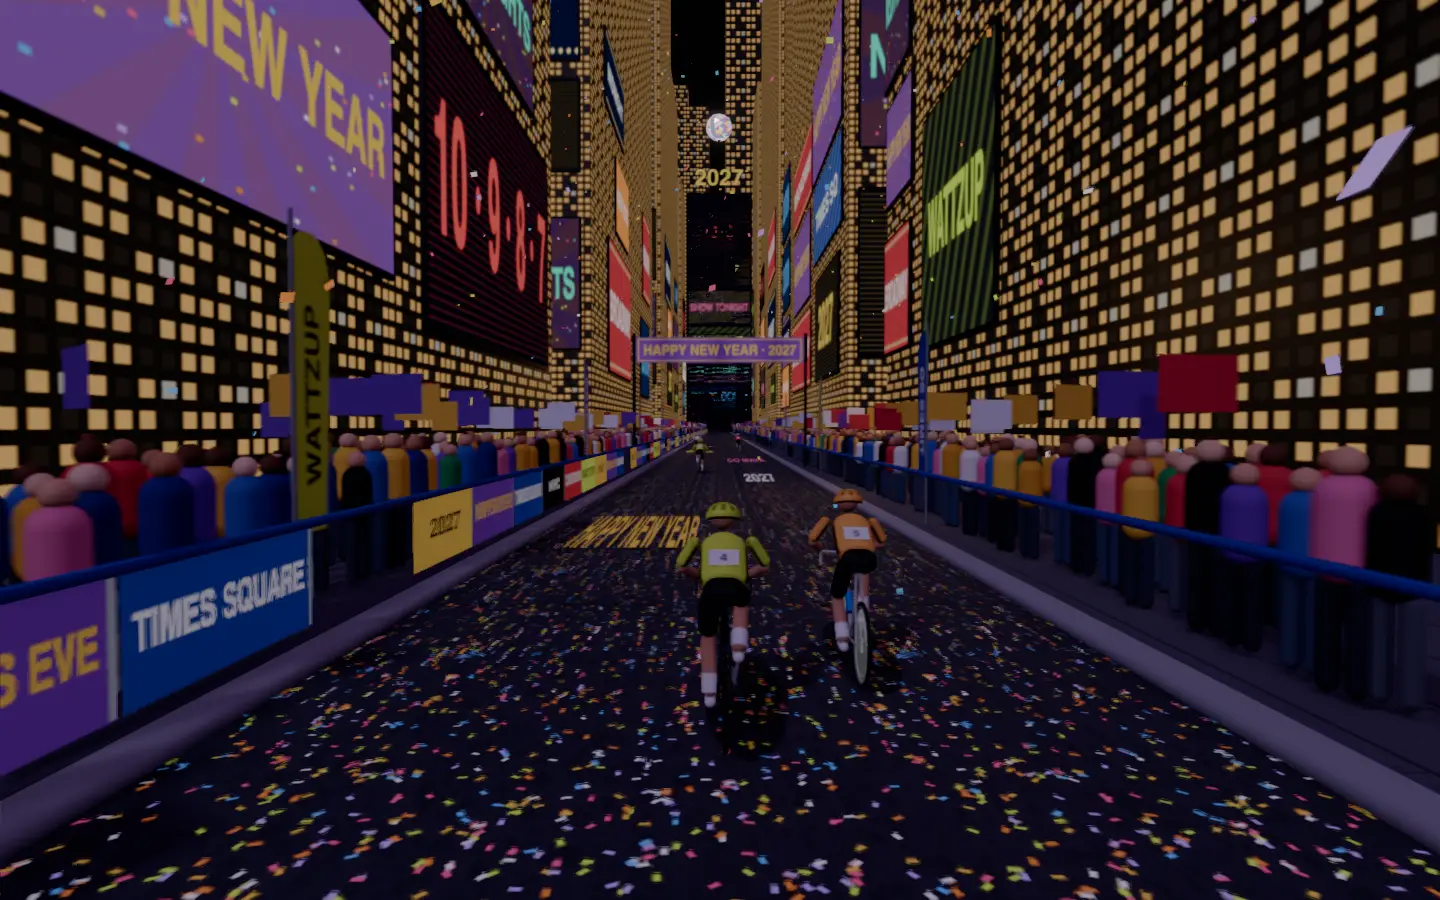
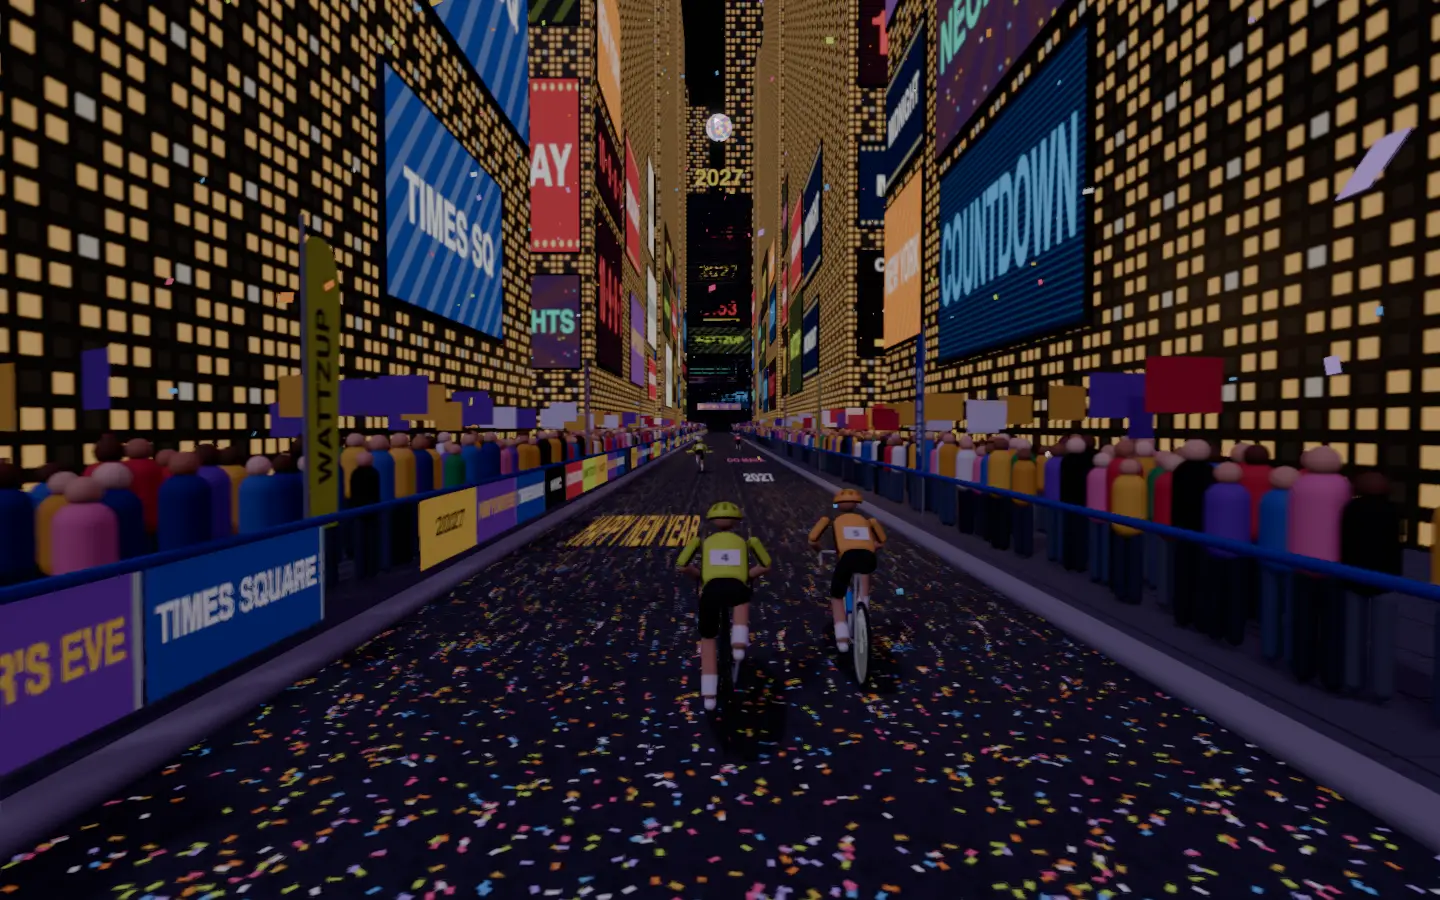
Count down every minute on Times Square's screens

diff --git a/frontend/projects/wattzup/src/app/core/world-timessquare.ts b/frontend/projects/wattzup/src/app/core/world-timessquare.ts
@@ -94,7 +94,7 @@ const BARRIER_PANELS: readonly BannerPanel[] = [
   { fill: '#111111', ink: '#ffffff', text: 'NYC' },
 ];
 const STREET_BANNERS: readonly (readonly [string, string, string, number])[] = [
-  ['HAPPY NEW YEAR · 2027', '#6a2a9a', '#f2c230', 132],
+  ['HAPPY NEW YEAR · 2027', '#6a2a9a', '#f2c230', 240],
   ['TIMES SQUARE · COUNTDOWN', '#1d3c8f', '#ffffff', 382],
 ];
 const FEATHERS: readonly FeatherWord[] = [
@@ -161,6 +161,9 @@ export class TimesSquareStreet implements SceneStreet {
   private readonly axis = new Vector3(0.6, 0.8, 0.2).normalize();
   private readonly ballMaterials: MeshStandardMaterial[] = [];
   private readonly boardTextures = new Map<number, CanvasTexture>();
+  /** The countdown screens: every one shows the same clock, counting down each minute to zero. */
+  private countdown?: CanvasTexture;
+  private shown = -1;
   private readonly flagMaterials = ['#f2c230', '#6a2a9a', '#ffffff', '#c8283a'].map(
     (colour) => new MeshStandardMaterial({ color: colour, side: DoubleSide, roughness: 0.8 }),
   );
@@ -210,6 +213,13 @@ export class TimesSquareStreet implements SceneStreet {
         this.confetti!.setMatrixAt(i, this.matrix.compose(this.spot, this.turn, this.size));
       });
       this.confetti.instanceMatrix.needsUpdate = true;
+    }
+    // The countdown screens tick down each minute, redrawn only when the second changes.
+    const left = 60 - (Math.floor(seconds) % 60);
+    if (this.countdown && left !== this.shown) {
+      this.shown = left;
+      drawCountdown((this.countdown.image as HTMLCanvasElement).getContext('2d')!, left);
+      this.countdown.needsUpdate = true;
     }
     // The ball's facets sparkle as it turns through its colours.
     this.ballMaterials.forEach((material, i) => {
@@ -352,9 +362,10 @@ export class TimesSquareStreet implements SceneStreet {
             const h = 6 + random() * 10;
             const w = Math.min(depth - 4, 10 + random() * 14);
             const angle = near > 0 ? 0 : Math.PI;
+            const kind = random() < 0.22 ? -1 : Math.floor(random() * BOARDS.length);
             tower.add(
               this.board(
-                Math.floor(random() * BOARDS.length),
+                kind,
                 w,
                 h,
                 -w / 2 - 1,
@@ -390,7 +401,7 @@ export class TimesSquareStreet implements SceneStreet {
     frame: MeshStandardMaterial,
   ): Group {
     const g = new Group();
-    let texture = this.boardTextures.get(kind);
+    let texture = kind < 0 ? this.clock() : this.boardTextures.get(kind);
     if (!texture) {
       const [text, fill, ink, look] = BOARDS[kind]!;
       texture = this.track(boardTexture(text, fill, ink, look, kind));
@@ -408,6 +419,14 @@ export class TimesSquareStreet implements SceneStreet {
     g.position.set(x, y, z);
     g.rotation.y = angle;
     return g;
+  }
+
+  /** The shared countdown screen's texture, made on first use. */
+  private clock(): CanvasTexture {
+    if (!this.countdown) {
+      this.countdown = this.track(canvasTexture(512, 256, (g) => drawCountdown(g, 60)));
+    }
+    return this.countdown;
   }
 
   private addStreetBanners(roadHalf: number): void {
@@ -527,7 +546,7 @@ export class TimesSquareStreet implements SceneStreet {
       [4, 12, 8],
       [10, 21, 9],
       [3, 31, 9],
-      [7, 42, 11],
+      [-1, 42, 11],
       [1, 54, 10],
       [9, 67, 12],
     ];
@@ -750,4 +769,34 @@ function yearTexture(): CanvasTexture {
     g.font = 'bold 190px sans-serif';
     g.fillText('2027', 256, 108, 500);
   });
+}
+
+/**
+ * A countdown screen: the seconds left in the minute as a big red clock on black, the words
+ * COUNTDOWN TO 2027 over it and a bar running out under it.
+ */
+function drawCountdown(g: CanvasRenderingContext2D, left: number): void {
+  g.fillStyle = '#07070d';
+  g.fillRect(0, 0, 512, 256);
+  g.strokeStyle = 'rgba(255,74,74,0.16)';
+  g.lineWidth = 2;
+  for (let y = 6; y < 256; y += 8) {
+    g.beginPath();
+    g.moveTo(0, y);
+    g.lineTo(512, y);
+    g.stroke();
+  }
+  g.textAlign = 'center';
+  g.textBaseline = 'middle';
+  g.fillStyle = '#ffffff';
+  g.font = 'bold 40px sans-serif';
+  g.fillText('COUNTDOWN TO 2027', 256, 34, 470);
+  g.fillStyle = '#ff3a3a';
+  g.font = 'bold 150px sans-serif';
+  const text = left === 60 ? '1:00' : `0:${String(left).padStart(2, '0')}`;
+  g.fillText(text, 256, 140, 480);
+  g.fillStyle = '#3a1a1a';
+  g.fillRect(40, 220, 432, 16);
+  g.fillStyle = '#ffd84a';
+  g.fillRect(40, 220, 432 * (left / 60), 16);
 }

diff --git a/docs/detailed-designs/world-ride/draw-class-scene/README.md b/docs/detailed-designs/world-ride/draw-class-scene/README.md
@@ -419,11 +419,12 @@ None.
   - ahead the upper slopes streaked with snow, the summit cone with its plume of steam and ash rising and drifting on the ride's clock, lesser cones on its flanks, and the Ionian Sea far below, keeping their bearing.
 - **Times Square New Year's Eve (`core/world-timessquare.ts`).** For `timessquare`, Broadway through Times Square on the last night of the year, closed for the ride:
   - Broadway's asphalt strewn with fallen confetti, names and cries chalked on it every 16 m (HAPPY NEW YEAR, 2027, 10 9 8 7 and more); kerbs, and dark paved plazas out to the tower fronts;
-  - blue police barriers hung with the ride's banners (TIMES SQUARE, NEW YEAR'S EVE, 2027, WATTZUP, COUNTDOWN, NYC), the kit's feather flags every 16 m along both, and two banners over the street (HAPPY NEW YEAR · 2027, TIMES SQUARE · COUNTDOWN);
+  - blue police barriers hung with the ride's banners (TIMES SQUARE, NEW YEAR'S EVE, 2027, WATTZUP, COUNTDOWN, NYC), the kit's feather flags every 16 m along both, and two banners over the street (HAPPY NEW YEAR · 2027 and TIMES SQUARE · COUNTDOWN), set where they leave One Times Square in view from the opening shot;
   - the party packed solid in the plazas behind the barriers in winter coats and New Year's colours, a third waving flags (the shared crowd), the cross streets kept clear;
-  - towers block after block either side, 11 m off the road's centre, 50 to 160 m tall and 18 to 34 m wide, a cross street every 80 m: their upper floors lit window by window, their lower floors wrapped in glowing billboards (HAPPY NEW YEAR, BROADWAY, COUNTDOWN, THE GREAT WHITE WAY, MIDNIGHT and more, as bursts, big digits, marquees and stripes) stacked along their fronts and round their corners toward the rider;
+  - towers block after block either side, 11 m off the road's centre, 50 to 160 m tall and 18 to 34 m wide, a cross street every 80 m: their upper floors lit window by window, their lower floors wrapped in glowing billboards (HAPPY NEW YEAR, BROADWAY, COUNTDOWN, THE GREAT WHITE WAY, MIDNIGHT and more, as bursts, big digits, marquees and stripes) stacked along their fronts and round their corners toward the rider, about one in five of the corner boards a countdown screen;
   - confetti, nine hundred flakes of every colour, drifting down and spinning around the rider (`setTime` moves it, so it holds still for reduced motion);
-  - 260 m ahead, where Broadway meets Seventh Avenue, One Times Square: its narrow tower stacked with six screens up its front, 2027 in gold lights on its roof and the crystal ball on its pole above, its facets in five colours sparkling; lit towers either side of it and behind, hazed by hand. Everything along the street is hidden past it.
+  - 260 m ahead, where Broadway meets Seventh Avenue, One Times Square: its narrow tower stacked with six screens up its front, the middle one a countdown screen, 2027 in gold lights on its roof and the crystal ball on its pole above, its facets in five colours sparkling; lit towers either side of it and behind, hazed by hand. Everything along the street is hidden past it;
+  - every countdown screen shows one shared clock: COUNTDOWN TO 2027 over the seconds left in the current minute in big red figures (1:00 down to 0:01) and a gold bar running out under them, redrawn by `setTime` only when the second changes, so it holds at 1:00 for reduced motion.
 
   `lay`, `place` and `setTime` recycle it along a 500 m loop.
 

diff --git a/docs/class-worlds.md b/docs/class-worlds.md
@@ -43,7 +43,7 @@ Every class in `frontend/public/classes.json`, with its World Ride scene. Render
 | 37 | Team Time Trial | Bonneville Salt Flats | 80% | An endless white salt plain stretches away under a blazing Utah sky, the speedway course marked by its black line past the pits of Speed Week toward the Silver Island Mountains floating on a shimmering mirage. The three-minute warm-up rolls out past the motorhomes and the parked streamliners, each thirty-second and one-minute turn drives the paceline hard between the mile boards, and the recoveries sit in on the wheels with the mirage mountains still floating ahead. |
 | 38 | The Pyramid | Giza Plateau | 72% | Desert road around the pyramids at sunrise; efforts build and fall like the stones. |
 | 39 | Hold Your Intensity | Great Ocean Road (concept) |  | Australian sea cliffs and the Twelve Apostles; hold steady through winding, spray-dashed bends. |
-| 40 | Give Me One Minute | Times Square New Year's Eve | 72% | Broadway through Times Square glows on the last night of the year, its towers wrapped in billboards and countdown screens above a party packed behind police barriers, confetti drifting down toward One Times Square and the crystal ball on its pole. The two-minute warm-up rolls in under the screens, each one-minute effort races the countdown between the billboards toward the ball drop, and the recoveries coast through the confetti with the glowing 2027 still ahead. |
+| 40 | Give Me One Minute | Times Square New Year's Eve | 75% | Broadway through Times Square glows on the last night of the year, its towers wrapped in billboards and countdown screens above a party packed behind police barriers, confetti drifting down toward One Times Square and the crystal ball on its pole. The two-minute warm-up rolls in under the screens, each one-minute effort races the countdown between the billboards toward the ball drop, and the recoveries coast through the confetti with the glowing 2027 still ahead. |
 | 41 | Drag Race | Daytona Beach Sand | 74% | Hard-packed sand where stock cars once raced; drag-race along the tide line. |
 | 42 | Max Effort Up & Overs | San Francisco Hills (concept) |  | Steep streets and Lombard's crooked bends; up and over each crest as cable cars clang. |
 | 43 | Non-Stop Sprinting | Monaco Street Circuit (concept) |  | Superyachts, the casino and the tunnel; sprint the harbour circuit on race weekend. |
